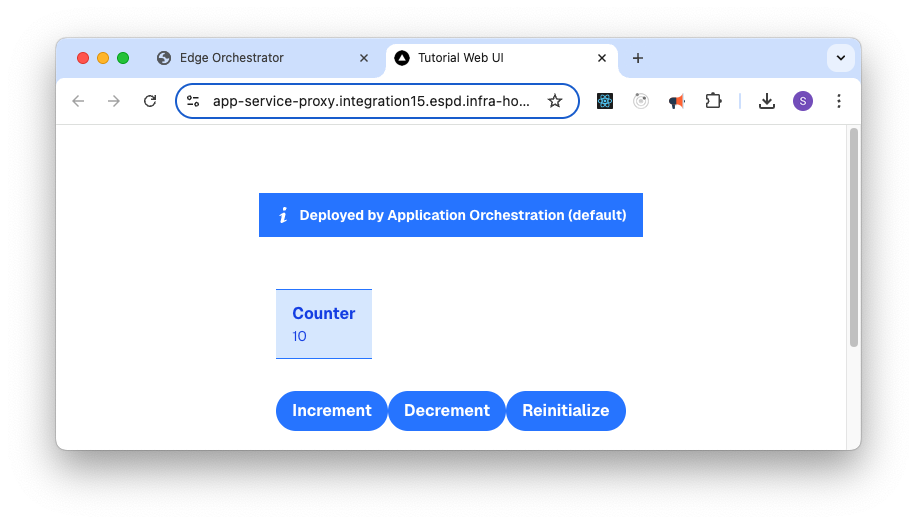
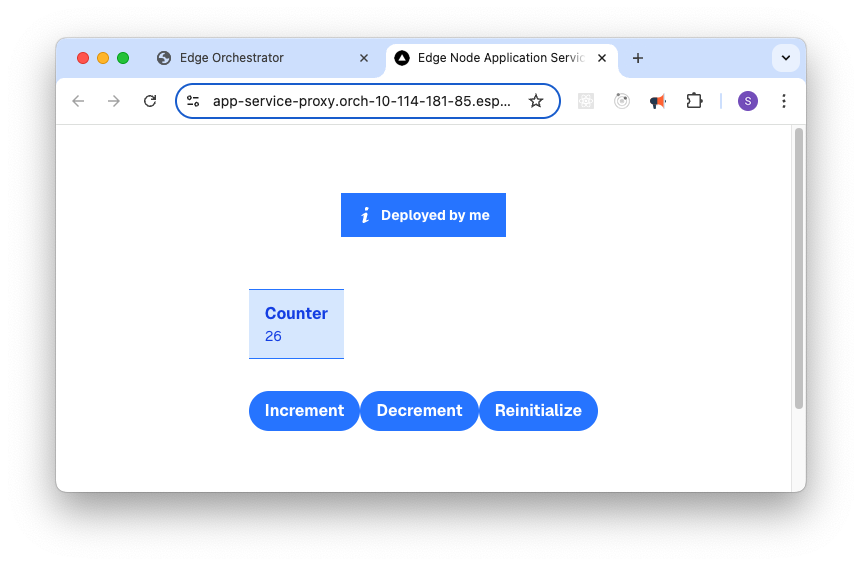
Fix app-orch tutorial

diff --git a/docs/developer_guide/app_orch/tutorials/accessing-applications/index.rst b/docs/developer_guide/app_orch/tutorials/accessing-applications/index.rst
@@ -3,16 +3,25 @@ Access Applications
 
 After the application is deployed with the **default** Deployment Profile, you can access it from the Web UI.
 
-In the deployment page, you can view the **tutorial-web-ui** Application and its status.
+In the `Deployments` page you can view the details of the deployed application.
+With this you can see the status of the application, the profile used for deployment,
+and in the details the values used for the parameters in the profile.
 
-You can also see the **tutorial-server** Application.
-
-.. figure:: ../images/app-orch-tutorial-deployed.png
+.. figure:: ../images/app-orch-deploy-view.png
    :width: 100%
    :alt: Tutorial Application deployed
 
-Here, you can see both the **tutorial-server** and **tutorial-web-ui** applications in this single deployment on this cluster.
-The `tutorial-web-ui` is expanded, and you can see the Service Link that was created earlier by annotation of the service.
+
+Clicking on the cluster link you can see how the application is deployed to an
+Edge Node cluster.
+
+.. figure:: ../images/app-orch-tutorial-deployed.png
+   :width: 100%
+   :alt: Tutorial Application deployed on cluster
+
+Here, you can see both the **tutorial-server** and **tutorial-web-ui** applications
+in this single deployment on this cluster. The `tutorial-web-ui` is expanded, and
+you can see the Service Link that was created earlier by annotation of the service.
 
 Select the link to open a new browser window that will redirect to the Tutorial Web UI page.
 
@@ -24,8 +33,9 @@ From the UI, you can infer the following:
 
 - The web ui is deployed and running properly
 - The tutorial server is deployed and running properly
-- The tutorial server is getting the initial variables from the default Profile
-- The counter is getting initialized at 10 (from the default profile)
+- The tutorial server is getting the initial variables from the parameter in the
+  Profile
+- The counter is getting initialized at 26 (from the parameter in the profile)
 - The tutorial server is reachable from the web ui through the NGINX\* proxy
 
 You can also change the counter value in the **alternate** profile and deploy it to see how the web ui

diff --git a/docs/developer_guide/app_orch/tutorials/deploying-applications/deploying.rst b/docs/developer_guide/app_orch/tutorials/deploying-applications/deploying.rst
@@ -4,16 +4,31 @@ Deploy the Tutorial
 You can deploy the Tutorial Server and the Tutorial Web UI on the Deployments page. The process is described
 in detail in the User Guide in :doc:`/user_guide/package_software/deployments`.
 
-.. figure:: ../images/app-orch-deploy-tutorial.png
-   :alt: Deploy Tutorial Server with Default Deployment Profile
-   :width: 1344px
-   :height: 737px
-   :scale: 70 %
+To show the flexibility of the Application Orchestration, we will deploy the Tutorial
+Server with the `alternate-pt` profile, and will give it a custom greeting message:
+
+
+
+.. figure:: ../images/app-orch-deploy-tutorial-2.png
+   :alt: Choose Alternate-PT Deployment Profile while deploying
+   :align: center
+
+When prompted, enter values for the parameters in the form - we defined these in
+:doc:`../deployment-packages/index`.
+
+.. figure:: ../images/app-orch-deploy-tutorial-3.png
+   :alt: Fill in Parameter Templates for Tutorial Server while deploying
+   :align: center
+
+Then continue with the deployment by clicking **Deploy**.
+
+.. figure:: ../images/app-orch-deploy-tutorial-6.png
+   :alt: Deploy Tutorial Server with Alternate-PT Deployment Profile
    :align: center
 
 Note that you can deploy and undeploy in less than a minute. Therefore, you can try out the different profiles.
 
-.. note:::
+.. note::
     The first time you deploy the Tutorial Server, it will take a few minutes to pull the tutorial server image
     because of its size. The tutorial-web-ui may restart multiple time in this period because it depends on the
     tutorial-server service to be available. This is normal behavior.

diff --git a/docs/developer_guide/app_orch/tutorials/deployment-packages/index.rst b/docs/developer_guide/app_orch/tutorials/deployment-packages/index.rst
@@ -35,11 +35,11 @@ as **tutorial-server-app.yaml** in the same directory with the following content
     - name: "alternate-pt"
       valuesFileName: "tutorial-server-values-alternate-pt.yaml"
       parameterTemplates:
-      - name: "greeting"
+      - name: "tutorialServer.greeting"
         displayName: Greeting message
         default: "Deployed by Application Orchestration (pt)"
         type: string
-      - name: "initialCount"
+      - name: "tutorialServer.initialCount"
         displayName: Initial count
         default: "0"
         type: string

diff --git a/docs/developer_guide/app_orch/tutorials/deploying-applications/index.rst b/docs/developer_guide/app_orch/tutorials/deploying-applications/index.rst
@@ -6,6 +6,10 @@ you can now deploy the Tutorial Server and the Tutorial Web UI. This requires a 
 a multi-tenancy-project and cluster(s) configured on one or more Edge Nodes. The User Guide and Developer Guide have the
 details on how to do this.
 
+- :doc:`import-dp`
+- :doc:`pushing_charts_and_images`
+- :doc:`deploying`
+
 .. toctree::
    :hidden:
    :maxdepth: 1

diff --git a/docs/developer_guide/application_developer_workflow/deployment-packages/deployment-package-yaml-reference.rst b/docs/developer_guide/application_developer_workflow/deployment-packages/deployment-package-yaml-reference.rst
@@ -324,3 +324,4 @@ An example of an `application.yaml` from the
     defaultNamespaces:
         tutorial-server: tutorial
         tutorial-web-ui: tutorial
+

diff --git a/docs/developer_guide/application_developer_workflow/deployment-packages/application-yaml-reference.rst b/docs/developer_guide/application_developer_workflow/deployment-packages/application-yaml-reference.rst
@@ -366,3 +366,4 @@ An example of an `application.yaml` from the
         displayName: Initial count
         default: "0"
         type: string
+

diff --git a/docs/developer_guide/application_developer_workflow/deployment-packages/index.rst b/docs/developer_guide/application_developer_workflow/deployment-packages/index.rst
@@ -140,3 +140,4 @@ Reference
    application-yaml-reference
    deployment-package-yaml-reference
    registry-yaml-reference
+
